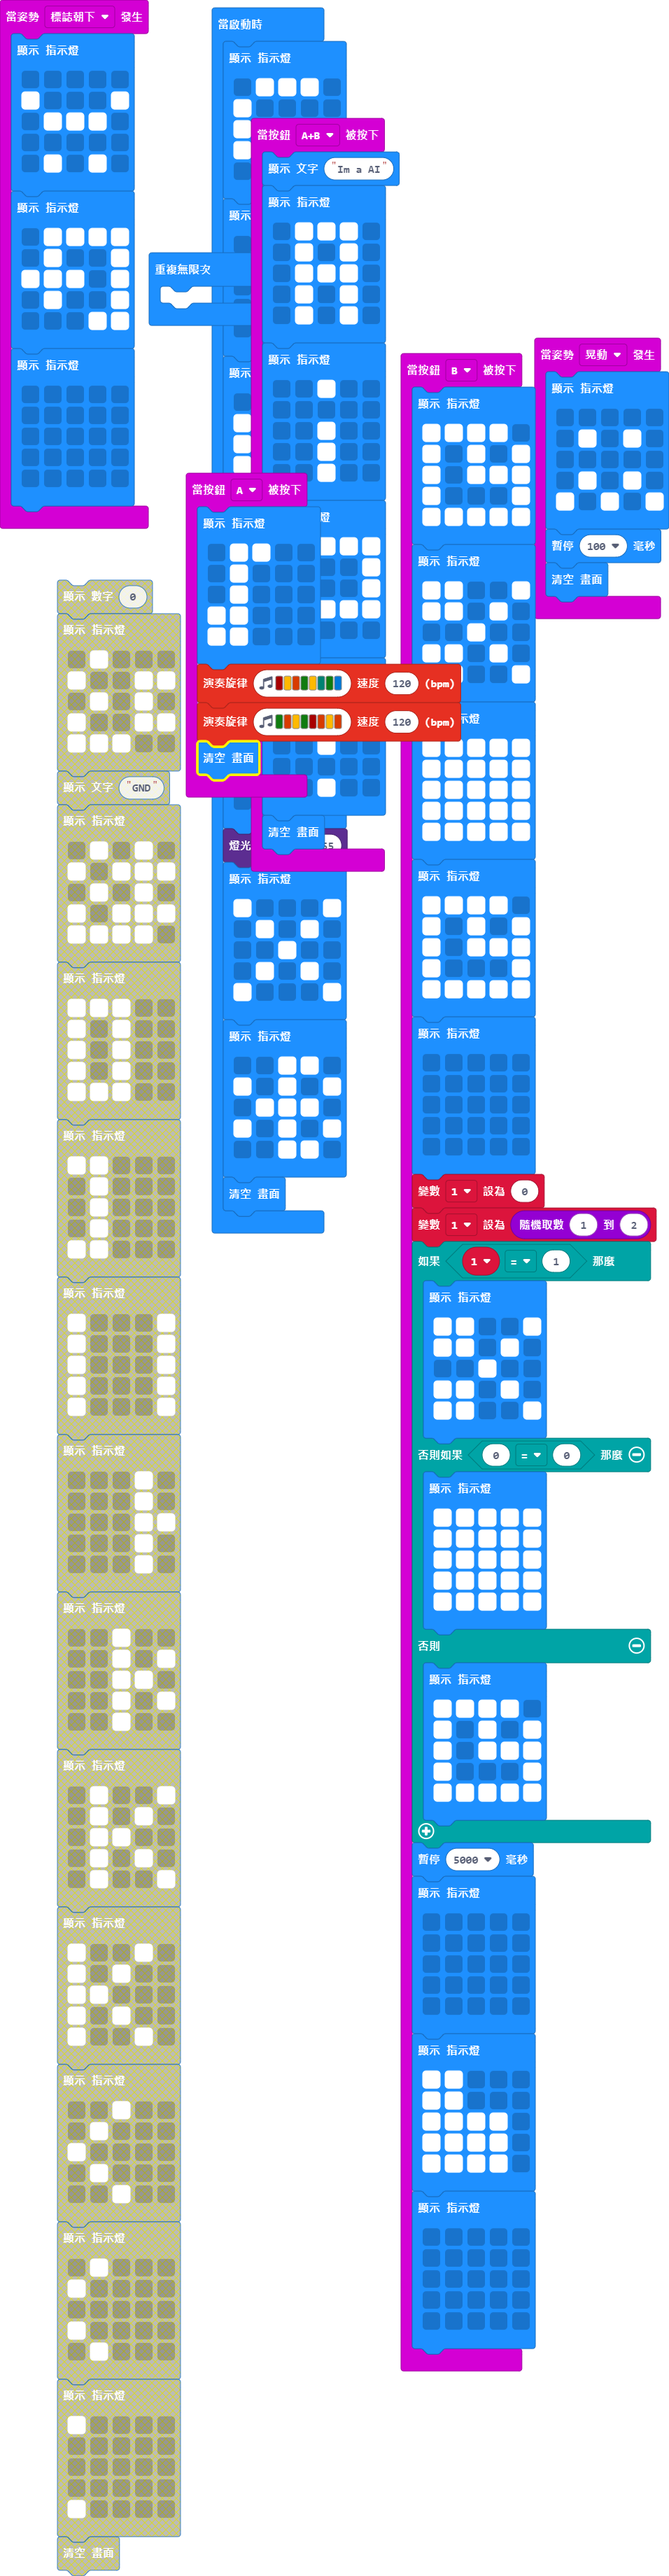
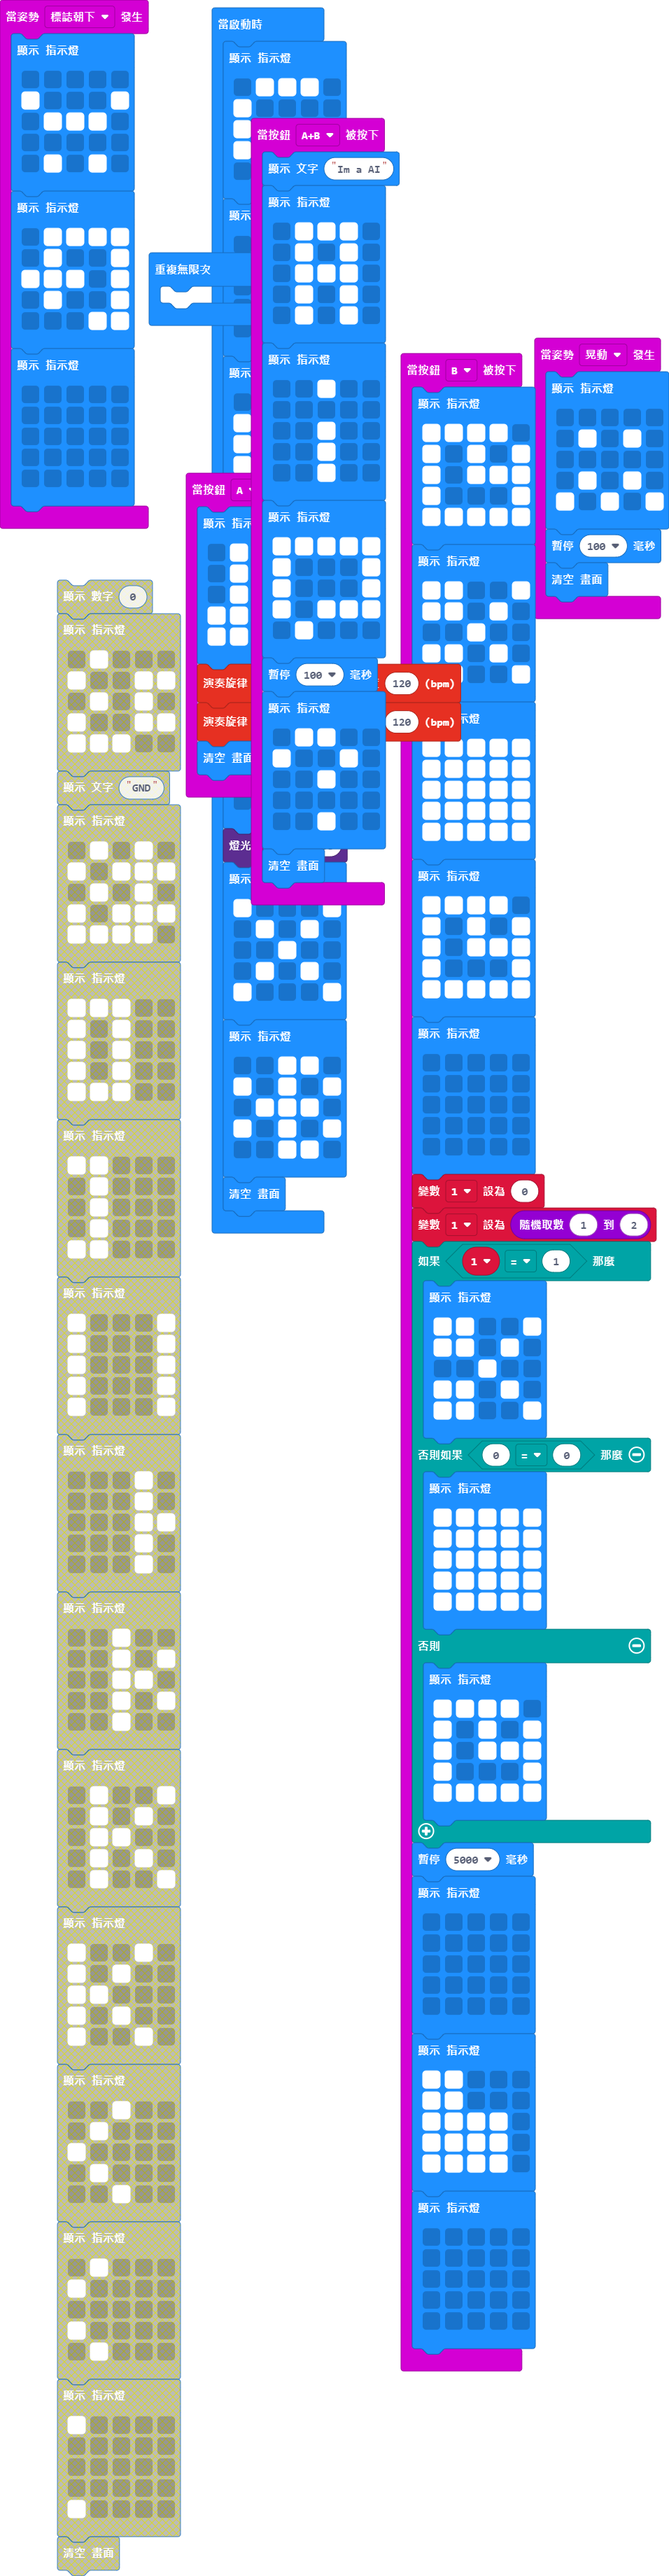
更新 pxt.json, main.blocks, main.ts

Changed region(s): [[0.364, 0.1562, 0.5764, 0.3749]]

diff --git a/main.ts b/main.ts
@@ -67,6 +67,7 @@ input.onButtonPressed(Button.AB, function () {
         # . # # #
         . # . . .
         `)
+    basic.pause(100)
     basic.showLeds(`
         . # # . .
         # . . # .
